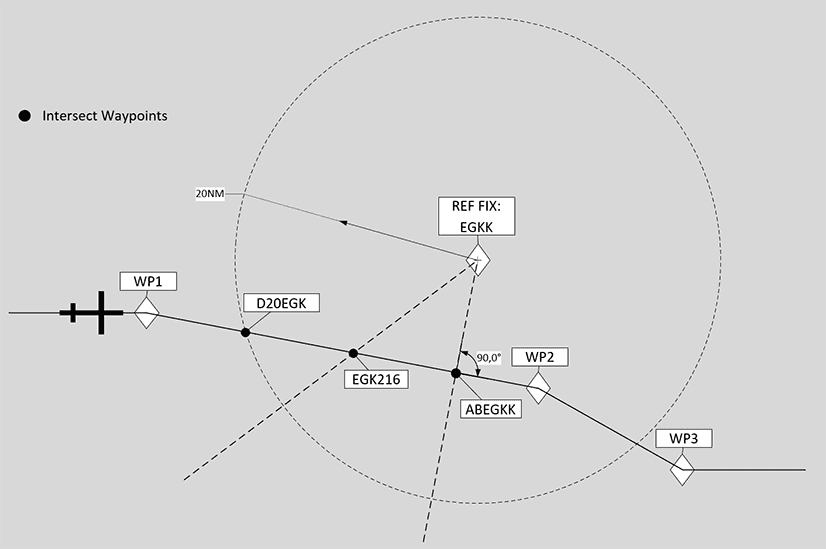
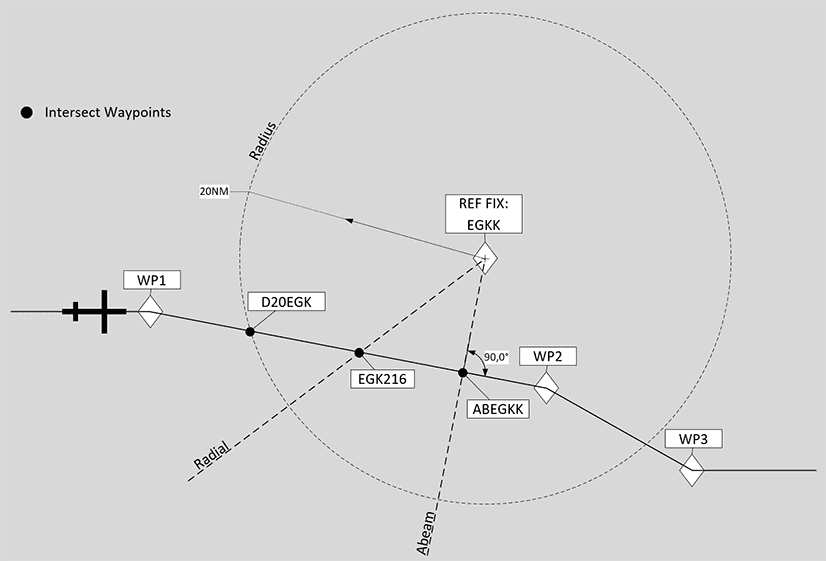
Update to image and some fixes.

diff --git a/docs/fbw-a32nx/feature-guides/fixinfo.md b/docs/fbw-a32nx/feature-guides/fixinfo.md
@@ -12,8 +12,9 @@ These lines or circles are displayed on the ND and also used to compute intercep
 
 The current Experimental version of the A32NX has implemented the display of these lines and circles on the ND.
 
-**The computed intercept waypoints and ABEAM functionality are not yet implemented.
-**
+!!! warning ""
+    The computed intercept waypoints and ABEAM functionality are not yet implemented.
+
 ## Use Cases
 
 Fix info is a powerful supplemental tool for pilots to improve situational awareness and easier, more precise navigation.
@@ -29,7 +30,7 @@ Fix info is a powerful supplemental tool for pilots to improve situational aware
 
 In the example below we assume a flight plan route passing WP1, WP2 and WP3 with the flight route shown as a line.
 
-A reference fix (REF FIX) named EXP is used to show the three different methods of creating intercept waypoints.
+A reference fix (REF FIX) named EGKK is used to show the three different methods of creating intercept waypoints.
 
 - Radial:
     - A Radial is a line from the REF FIX at a specific angle as known from common VOR navigation.
@@ -38,11 +39,12 @@ A reference fix (REF FIX) named EXP is used to show the three different methods 
 - Abeam:
     - An Abeam is a line from the REF FIX onto the flight path meeting the flight path ar a 90° angle.
 
-Find examples of these in the illustration below.
-
 ![Fix Info Examples](../assets/fixinfo/fixinfo-example.png "Fix Info Examples")
 
 After entering a radial, radius or abeam the FMS calculates if an intersection with the flight path is possible and provides the option to create a waypoint into the flight plan.
+
+!!! warning ""
+    Be aware this is not implemented in the current version of the A32NX yet.
 
 These waypoints will be named systematically with the type of interception and the REF FIX name.
 
